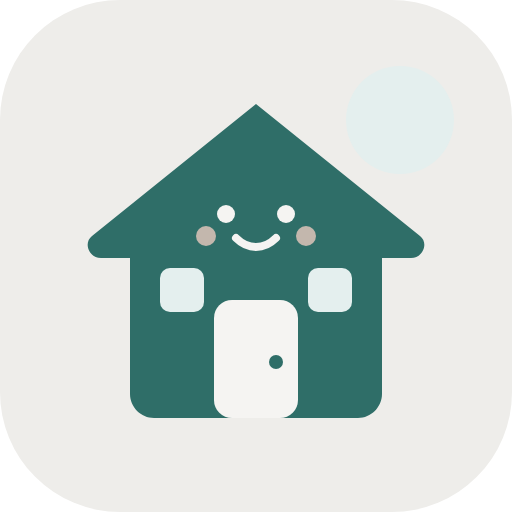
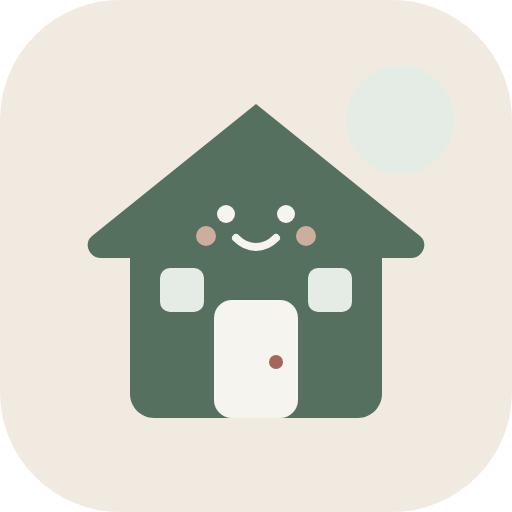
Ganti palet warna ke Sage & Pasir
- theme.css: krem pasir + aksen sage; tiap menu kembali punya warna
  sendiri yang pudar & senada (sage, pasir, biru batu, zaitun, terakota)
- Kartu saldo gradasi sage, warna status tetap dibedakan
- Ikon aplikasi, theme-color & manifest disesuaikan
- Versi v1.10

Claude-Session: https://claude.ai/code/session_016k4QMM5LHWqMStu4b4uAXy

Changed region(s): [[0.1562, 0.1875, 0.8438, 0.8438]]

diff --git a/style/theme.css b/style/theme.css
@@ -1,46 +1,48 @@
 /* ============================================================
-   THEME — Monokrom Hangat
-   Abu-abu hangat netral + satu warna aksen (teal).
+   THEME — Sage & Pasir
+   Warna natural yang kalem dan netral: hijau sage, krem pasir,
+   biru batu, zaitun, dan terakota. Tiap menu tetap punya warna
+   sendiri, tapi semuanya pudar & senada.
    Semua warna aplikasi diatur di file ini.
    ============================================================ */
 :root {
   /* Dasar */
-  --bg: #f5f4f2;          /* abu-abu hangat sangat muda */
+  --bg: #f6f4ef;          /* krem pasir sangat muda */
   --surface: #ffffff;
-  --surface-soft: #fbfaf8; /* isian input */
-  --ink: #2b2b2b;         /* teks utama */
-  --muted: #8c8986;
-  --line: #e6e3df;
-  --tile: #eeedea;        /* latar petak / kartu berwarna */
+  --surface-soft: #fcfbf8; /* isian input */
+  --ink: #2f3437;         /* teks utama */
+  --muted: #8a8d8f;
+  --line: #e7e3da;
+  --tile: #eeebe4;        /* latar petak netral */
 
-  /* Aksen utama (teal) */
-  --accent: #2f6e68;
-  --accent-ink: #3e7c76;
-  --accent-soft: #e4efee;
-  --accent-shadow: rgba(47, 110, 104, 0.25);
+  /* Aksen utama (sage tua) */
+  --accent: #55705f;
+  --accent-ink: #5e7f6c;
+  --accent-soft: #e5ece6;
+  --accent-shadow: rgba(85, 112, 95, 0.28);
 
-  /* Kartu gelap (saldo) */
-  --dark-1: #2f3a3a;
-  --dark-2: #4c5e5c;
+  /* Kartu saldo */
+  --dark-1: #55705f;
+  --dark-2: #7e9886;
 
   /* Status — tetap dibedakan agar angka penting mudah terbaca */
-  --ok: #3e7c76;
-  --ok-soft: #e4efee;
+  --ok: #55705f;
+  --ok-soft: #e5ece6;
   --warn: #b7791f;
   --warn-ink: #8a5a12;
-  --warn-soft: #f6ecd9;
-  --danger: #b4533f;
-  --danger-soft: #f6e4df;
-  --pos: #2f6e68;         /* angka pemasukan / sisa */
-  --neg: #b4533f;         /* angka pengeluaran / minus / hutang */
+  --warn-soft: #f4ead6;
+  --danger: #b0503f;
+  --danger-soft: #f5e3dd;
+  --pos: #55705f;         /* angka pemasukan / sisa */
+  --neg: #b0503f;         /* angka pengeluaran / minus / hutang */
 
-  /* Nama tone lama dipetakan ke palet monokrom (dipakai oleh .tone-*) */
-  --mint-bg: var(--tile);     --mint: var(--accent-ink);
-  --peach-bg: var(--tile);    --peach: var(--accent-ink);
-  --sky-bg: var(--tile);      --sky: var(--accent-ink);
-  --lavender-bg: var(--tile);  --lavender: var(--accent);
-  --butter-bg: var(--tile);   --butter: var(--accent-ink);
-  --rose-bg: var(--tile);     --rose: var(--accent-ink);
+  /* Warna per menu (latar petak + warna teks/ikon) */
+  --mint-bg: #e5ece6;     --mint: #5e7f6c;     /* sage */
+  --peach-bg: #f1eae0;    --peach: #9a7653;    /* pasir */
+  --sky-bg: #e3e9ee;      --sky: #4f6d86;      /* biru batu */
+  --lavender-bg: #e8eae6; --lavender: #55705f; /* sage abu (utama) */
+  --butter-bg: #efede1;   --butter: #857a45;   /* zaitun */
+  --rose-bg: #f1e5e0;     --rose: #a3685a;     /* terakota */
 
   /* Bentuk */
   --radius-lg: 24px;

diff --git a/index.html b/index.html
@@ -3,7 +3,7 @@
   <head>
     <meta charset="utf-8" />
     <meta name="viewport" content="width=device-width, initial-scale=1, viewport-fit=cover" />
-    <meta name="theme-color" content="#F5F4F2" />
+    <meta name="theme-color" content="#F6F4EF" />
     <meta name="color-scheme" content="light" />
     <meta name="description" content="Rumahku — inventory barang & keuangan keluarga dalam satu aplikasi." />
     <meta name="apple-mobile-web-app-capable" content="yes" />

diff --git a/sw.js b/sw.js
@@ -2,7 +2,7 @@
  * Service Worker — supaya aplikasi bisa dibuka tanpa internet.
  * Naikkan VERSION setiap kali ada perubahan file agar cache diperbarui.
  */
-const VERSION = 'rumahku-v11';
+const VERSION = 'rumahku-v12';
 const CORE = [
   './',
   './index.html',

diff --git a/service/version.service.js b/service/version.service.js
@@ -2,4 +2,4 @@
  * Versi aplikasi — tampil di menu Atur & layar scan.
  * Naikkan bersama VERSION di sw.js setiap ada perubahan.
  */
-export const APP_VERSION = 'v1.9';
+export const APP_VERSION = 'v1.10';
